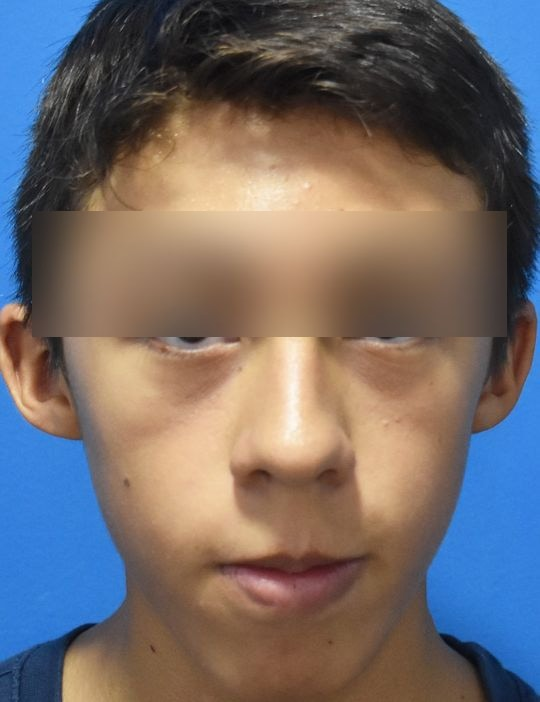
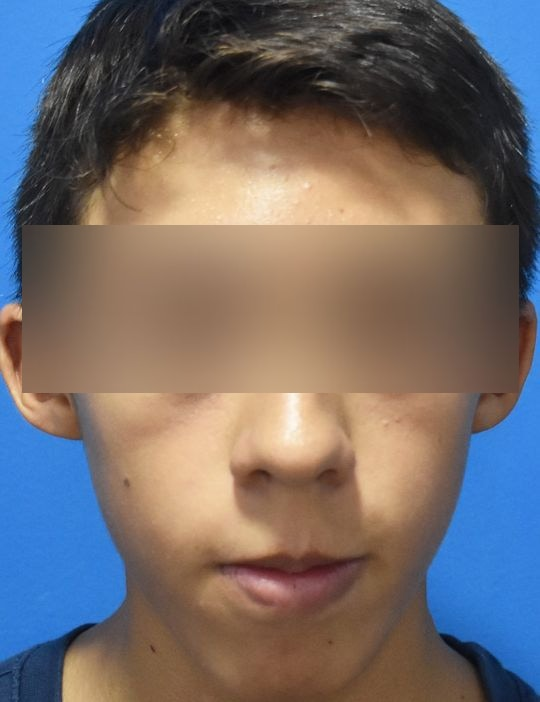
Privacy v3: heavier eye blur + simplify to 'consentimiento informado'
Blur
- Expand eye bands ~5pp on each axis so pupils never peek past the
  bottom seam of the bar (was happening on antes/frente, antes/perfil
  before because the bands were too tight).
- Bump minimum sigma from 25 → 30 and divisor from /5 → /4: stronger
  default blur for any band size.
- Add a THIRD blur pass (sigma + sigma/2 + sigma/4) — three compounding
  Gaussian passes collapse iris/pupil contrast on the high-res 'después'
  shots where two passes still left faint eye contours visible.
  Effective sigma on después is now 140+70+35 (was 92+46).

Consent copy
- Drop 'escrito' and 'video' qualifiers everywhere — single source of
  truth is 'consentimiento informado'. Affects the case detail badge,
  the casos-destacados index intro, and the landing teaser.
- Schema: collapse consent_signed + consent_video into a single
  consent_informed boolean (defaults true).
- Joel's frontmatter updated.
- Testimonials placeholder + Cases legacy disclaimer aligned.

diff --git a/src/content/config.ts b/src/content/config.ts
@@ -48,8 +48,7 @@ const featuredCases = defineCollection({
     diagnosis: z.string(),
     treatment: z.string(),
     summary: z.string(),
-    consent_signed: z.boolean(),
-    consent_video: z.boolean(),
+    consent_informed: z.boolean().default(true),
     photos_dir: z.string(),
     hero_pair: z.string().default("sonrisa"),
     pairs: z.array(

diff --git a/src/content/casos-destacados/joel.md b/src/content/casos-destacados/joel.md
@@ -7,8 +7,7 @@ duration_months: 30
 diagnosis: "Mordida cruzada anterior con tendencia a Clase III esquelética. Caso candidato a evaluación quirúrgica si se hubiera diagnosticado en edad adulta."
 treatment: "Ortopedia maxilar con expansión y máscara facial durante el pico de crecimiento puberal, seguido de ortodoncia con brackets metálicos. Sin cirugía ortognática."
 summary: "Caso de mordida cruzada y tendencia clase III resuelto sin cirugía gracias al diagnóstico oportuno y al uso de ortopedia maxilar durante la ventana de crecimiento."
-consent_signed: true
-consent_video: true
+consent_informed: true
 photos_dir: joel
 hero_pair: sonrisa
 pairs:
